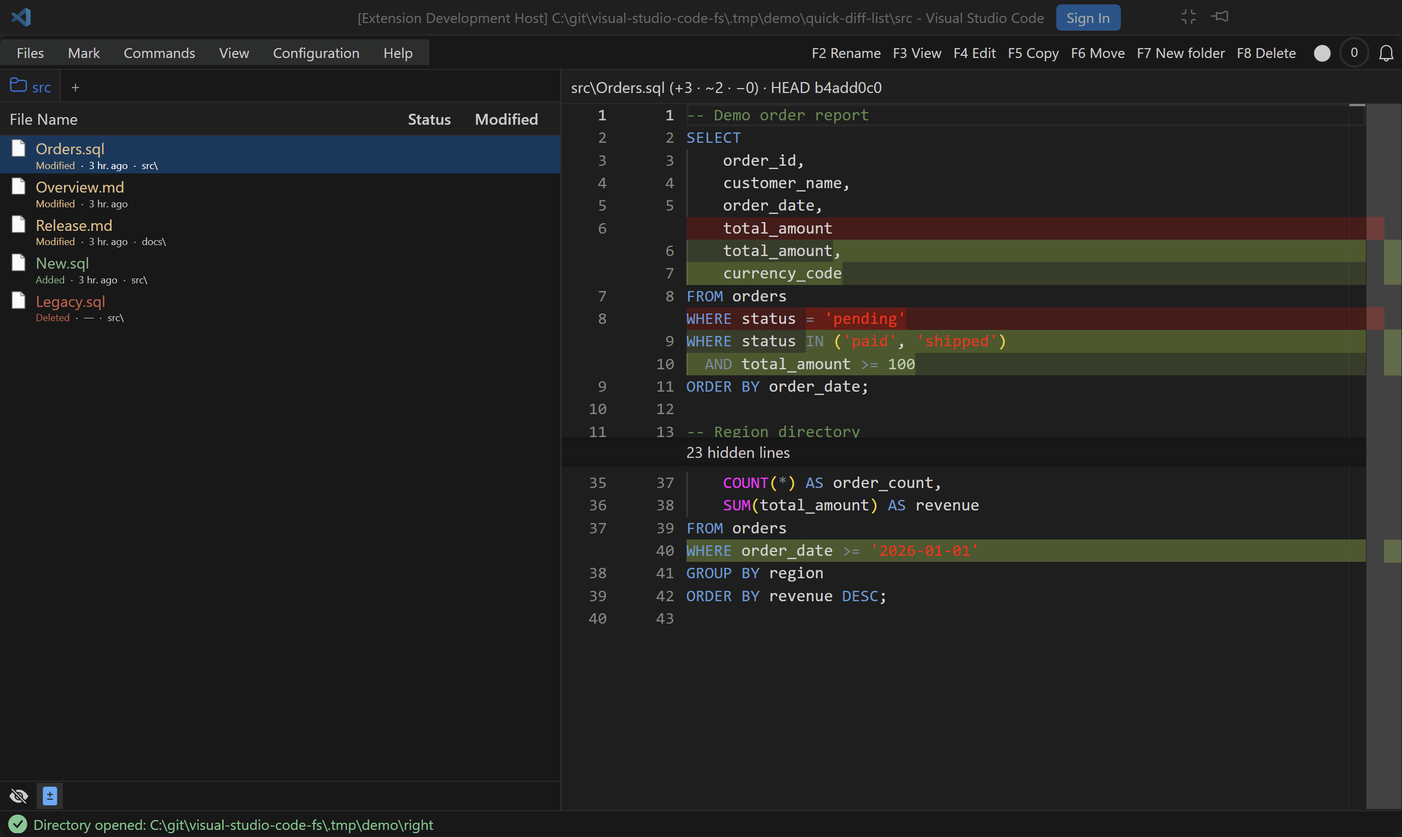
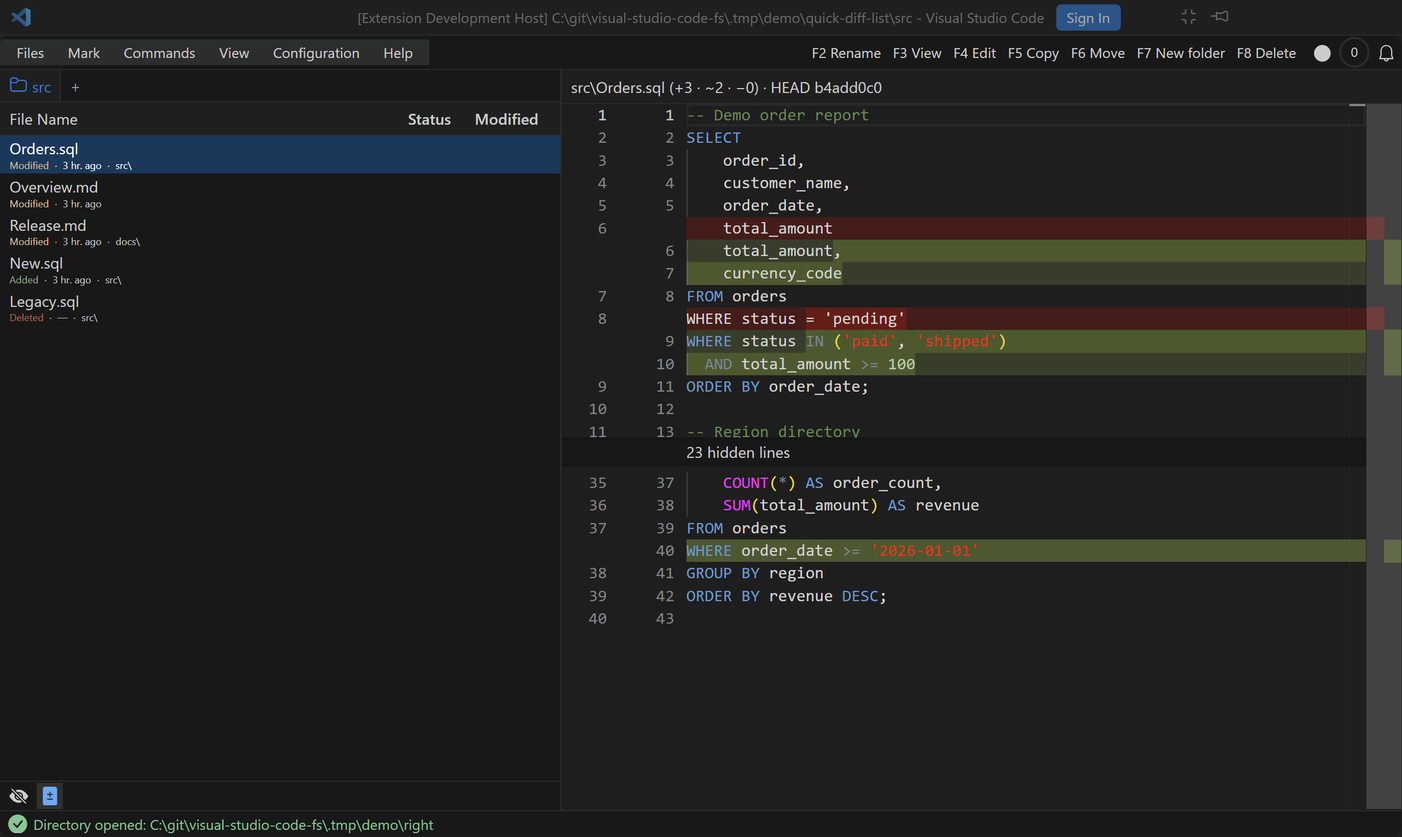
Polish Quick Diff list and add path copy shortcuts

Changed region(s): [[0.0, 0.1536, 0.0936, 0.3993], [0.5931, 0.3686, 0.6555, 0.3993], [0.4994, 0.3686, 0.5306, 0.3993]]

diff --git a/media/commander-quick-diff.js b/media/commander-quick-diff.js
@@ -1,11 +1,11 @@
 (function (root) {
   'use strict';
   root.CommanderQuickDiff = { create };
-  function create({ host, t, state, currentPath, isArchive, notify, beforeStart, preview, task, icon, decorate = () => {}, reveal = () => {} }) {
+  function create({ host, t, state, currentPath, isArchive, notify, beforeStart, preview, task, decorate = () => {}, reveal = () => {}, copy = () => {} }) {
     const container = document.querySelector('#panes');
     let source = null, mode = 'off', generation = 0, serial = 0, listId = null, repositoryRoot = null, entries = [], selected = -1, context = '', sourceView = null, view = null, editor = null, loading = false;
     const instance = [...crypto.getRandomValues(new Uint8Array(8))].map(v => v.toString(16).padStart(2, '0')).join('');
-    const pending = new Map(), activity = new Set(), requestedIcons = new Set(), icons = new Map(); let readRequest = null;
+    const pending = new Map(), activity = new Set(); let readRequest = null;
     let sortColumn = 'status', sortDirection = 'ascending';
     let restoration = null;
     const rowHeight = 32, relativeFormat = new Intl.RelativeTimeFormat(undefined, { numeric: 'auto', style: 'short' });
@@ -16,6 +16,12 @@
     }
     function updateTimes() { sourceView?.querySelectorAll('time').forEach(time => { const text = relativeTime(Date.parse(time.dateTime)); if (time.textContent !== text) time.textContent = text; }); }
     let clock = null;
+    const fullPath = entry => root.CommanderPaths.displayPath(root.CommanderPaths.joinPath(repositoryRoot || currentPath(state().panes[source]), entry.path), { platform: document.body.dataset.platform });
+    function copyPath(slash = false) {
+      if (!sourceView?.contains(document.activeElement)) return false;
+      const entry = entries[selected]; if (entry) copy(fullPath(entry), slash);
+      return true;
+    }
     const resize = new ResizeObserver(() => autoSize());
     function autoSize() {
       if (!sourceView?.isConnected || !sourceView.querySelector('[role="grid"]')) return;
@@ -44,7 +50,7 @@
       for (const [requestId] of pending) host?.postMessage({ type: 'quick-diff-cancel', requestId });
       pending.clear();
       if (listId) host?.postMessage({ type: 'quick-diff-release', listId });
-      listId = null; entries = []; selected = -1; loading = false; requestedIcons.clear(); icons.clear();
+      listId = null; entries = []; selected = -1; loading = false;
     }
     function message(text) { editor?.dispose(); editor = null; if (!view) return; const p = document.createElement('p'); p.role = 'status'; p.textContent = text; view.replaceChildren(p); }
     function focus() { sourceView?.querySelector('[role="grid"]')?.focus({ preventScroll: true }); }
@@ -79,22 +85,18 @@
       const body = grid.querySelector('.quick-diff-rows');
       const height = rowHeight, start = Math.max(0, Math.floor(grid.scrollTop / height) - 5), count = Math.ceil((grid.clientHeight || 560) / height) + 10;
       body.style.height = `${entries.length * height}px`; body.replaceChildren();
-      const needed = [];
       for (let i = start; i < Math.min(entries.length, start + count); i++) {
         const entry = entries[i], row = document.createElement('div'); row.role = 'row'; row.dataset.diffIndex = String(i); row.id = `${instance}-diff-${i}`;
         row.dataset.diffPath = entry.path;
         row.dataset.diffStatus = entry.gitStatus || entry.status.toLowerCase();
         row.dataset.diffKind = entry.status.toLowerCase();
-        entry.icon = icons.get(entry.path);
-        if (!requestedIcons.has(entry.path) && needed.length < 100) { requestedIcons.add(entry.path); needed.push(entry.path); }
         row.className = 'quick-diff-row'; row.style.top = `${i * height}px`; row.setAttribute('aria-selected', String(i === selected)); row.setAttribute('aria-rowindex', String(i + 2));
-        const name = document.createElement('span'); name.className = 'quick-diff-name'; name.title = entry.name;
-        const glyph = document.createElement('span'); glyph.className = 'file-icon'; glyph.innerHTML = icon(entry);
+        const name = document.createElement('span'); name.className = 'quick-diff-name'; name.title = fullPath(entry);
         const filename = document.createElement('span'); filename.dataset.diffFilename = ''; filename.textContent = entry.path.split('/').pop();
-        const directory = document.createElement('span'); directory.dataset.diffDirectory = ''; directory.role = 'gridcell'; directory.setAttribute('aria-label', entry.name); directory.title = entry.name;
+        const directory = document.createElement('span'); directory.dataset.diffDirectory = ''; directory.role = 'gridcell'; directory.setAttribute('aria-label', entry.name); directory.title = fullPath(entry);
         const separator = Math.max(entry.name.lastIndexOf('/'), entry.name.lastIndexOf('\\'));
         directory.textContent = separator >= 0 ? entry.name.slice(0, separator + 1) : document.body.dataset.platform === 'win32' ? '.\\' : './';
-        name.append(glyph, filename);
+        name.append(filename);
         const status = document.createElement('span'); status.role = 'gridcell'; status.dataset.diffStatusCell = ''; status.textContent = t(entry.status);
         const modified = document.createElement('span'); modified.role = 'gridcell'; modified.dataset.modifiedAt = '';
         if (Number.isFinite(entry.modifiedAt)) {
@@ -105,7 +107,6 @@
         if (!['.\\', './'].includes(directory.textContent)) info.append(divider(), directory);
         row.append(name, info); body.append(row);
       }
-      if (needed.length) host?.postMessage({ type: 'quick-diff-icons', listId, generation, paths: needed.slice(0, 100) });
       grid.setAttribute('aria-rowcount', String(entries.length + 1));
       if (selected >= 0) grid.setAttribute('aria-activedescendant', `${instance}-diff-${selected}`); else grid.removeAttribute('aria-activedescendant');
       decorate();
@@ -147,6 +148,9 @@
         const side = source, root = repositoryRoot, previewState = snapshot(); stop(); reveal({ entry, root, side, previewState });
       });
       grid.addEventListener('keydown', event => {
+        if (!event.altKey && (event.ctrlKey || event.metaKey && document.body.dataset.platform === 'darwin') && event.key.toLowerCase() === 'y') {
+          event.preventDefault(); event.stopImmediatePropagation(); copyPath(event.shiftKey); return;
+        }
         let next = selected;
         if (event.key === 'ArrowDown') next++; else if (event.key === 'ArrowUp') next--; else if (event.key === 'Home') next = 0; else if (event.key === 'End') next = entries.length - 1; else if (event.key === 'PageDown') next += 10; else if (event.key === 'PageUp') next -= 10; else return;
         event.preventDefault(); event.stopImmediatePropagation(); choose(Math.max(0, Math.min(entries.length - 1, next))); grid.scrollTop = Math.max(0, selected * rowHeight - grid.clientHeight / 2); rows();
@@ -191,16 +195,6 @@
     }
     function receive(event) {
       const data = event.data;
-      if (data?.type === 'quick-diff-icons-result') {
-        if (data.listId === listId && data.generation === generation) {
-          for (const [name, value] of Object.entries(data.icons || {})) if (value) icons.set(name, value);
-          sourceView.querySelectorAll('[data-diff-index]').forEach(row => {
-            const entry = entries[Number(row.dataset.diffIndex)]; entry.icon = icons.get(entry.path);
-            const glyph = row.querySelector('.file-icon'); if (entry.icon && glyph.querySelector('img')?.src !== entry.icon) glyph.innerHTML = icon(entry);
-          });
-        }
-        return;
-      }
       if (data?.type === 'quick-diff-progress' && activity.has(data.requestId)) { task(data.requestId, 'Quick Diff', data.progress); return; }
       if (data?.type === 'quick-diff-finished' && activity.has(data.requestId)) { activity.delete(data.requestId); task(data.requestId, null, null); return; }
       if (data?.type === 'quick-diff-action-error') { notify(data.error, 'error'); return; }
@@ -241,6 +235,6 @@
     document.addEventListener('keydown', event => { if (source !== null && event.key === 'Escape' && event.target.closest('[data-quick-diff],[data-quick-diff-list]')) { event.preventDefault(); event.stopImmediatePropagation(); stop(true); } }, true);
     const theme = new MutationObserver(() => autoSize()); theme.observe(document.body, { attributes: true, attributeFilter: ['class', 'style'] });
     window.addEventListener('message', receive); window.addEventListener('pagehide', () => { stop(); clearInterval(clock); resize.disconnect(); theme.disconnect(); }, { once: true });
-    return { mount, sync, stop, snapshot, restore, refresh() { if (source === null) return false; load(); return true; } };
+    return { mount, sync, stop, snapshot, restore, copyPath, refresh() { if (source === null) return false; load(); return true; } };
   }
 })(globalThis);

diff --git a/tests/webview-quick-diff.test.js b/tests/webview-quick-diff.test.js
@@ -105,19 +105,20 @@ test('Quick Diff name sorting compares filenames across directories and preserve
   app.click(name); assert.deepEqual(paths(), ['a/z.sql', 'z/a.sql']);
 });
 
-test('Quick Diff uses Git colors for filename and status while keeping metadata readable', async t => {
+test('Quick Diff keeps filenames neutral without icons and colors only the status', async t => {
   const app = createApp(t, undefined, { fileSettings: { colors: { enabled: true, git: true, rules: { '*.sql': '#ffffff' } } } });
   app.click(app.document.querySelector('[data-quick-diff-toggle]'));
   const request = app.messages.find(message => message.type === 'quick-diff-list');
   app.window.dispatchEvent(new app.window.MessageEvent('message', { data: { type: 'quick-diff-result', requestId: request.requestId, generation: request.generation, ok: true,
     result: { id: 'colors', entries: [{ path: 'nested/query.sql', name: 'nested/query.sql', status: 'Modified', gitStatus: 'modified', modifiedAt: 1000 }] } } }));
   const row = app.document.querySelector('.quick-diff-row');
-  assert.ok(row.querySelector('.quick-diff-name').style.getPropertyValue('--file-type-color'));
-  assert.ok(row.style.getPropertyValue('--git-text-color'));
+  assert.equal(row.querySelector('.quick-diff-name').style.getPropertyValue('--file-type-color'), '');
+  assert.equal(row.style.getPropertyValue('--git-text-color'), '');
+  assert.equal(row.querySelector('.file-icon,img,svg'), null);
+  assert.equal(app.messages.some(message => message.type === 'quick-diff-icons'), false);
   assert.equal(row.querySelector('[data-modified-at]').style.getPropertyValue('--file-type-color'), '');
   assert.ok(row.querySelector('[data-diff-status-cell]').style.getPropertyValue('--quick-status-base'));
-  assert.equal(row.querySelector('.quick-diff-name').style.getPropertyValue('--file-type-color'), row.querySelector('[data-diff-status-cell]').style.getPropertyValue('--quick-status-base'));
-  assert.notEqual(row.querySelector('.quick-diff-name').style.getPropertyValue('--file-type-color'), '#ffffff');
+  assert.equal(row.querySelector('.quick-diff-name').style.getPropertyValue('--quick-status-base'), '');
   const list = app.document.querySelector('[data-quick-diff-list]');
   assert.ok(parseFloat(list.style.getPropertyValue('--quick-diff-status-width')) > 0);
   assert.ok(parseFloat(list.style.getPropertyValue('--quick-diff-date-width')) > 0);
@@ -139,6 +140,8 @@ test('Quick Diff metadata uses the bright foreground even on unselected rows', t
   const row = app.document.querySelector('[data-diff-path="src/b.sql"]');
   assert.equal(row.getAttribute('aria-selected'), 'false');
   for (const cell of ['[data-diff-directory]', '[data-modified-at]', '.quick-diff-separator']) assert.equal(app.window.getComputedStyle(row.querySelector(cell)).color, 'rgb(204, 204, 204)');
+  assert.equal(app.window.getComputedStyle(row.querySelector('.quick-diff-name')).color, 'rgb(204, 204, 204)');
+  assert.equal(app.window.getComputedStyle(row.querySelector('.quick-diff-info')).paddingLeft, '0px');
   assert.equal(app.document.querySelector('[data-diff-path="a.sql"] .quick-diff-info').children.length, 3);
 });
 
@@ -241,4 +244,27 @@ test('Quick Diff history waits for the filesystem navigation acknowledgement bef
   receive({ type: 'filesystem-result', navigationRequestId: back.navigationRequestId, ok: true, state: back.state });
   assert.ok(app.document.querySelector('[data-quick-diff]'));
   assert.equal(app.messages.filter(message => message.type === 'quick-diff-list').at(-1).selectedPath, 'docs/audit.sql');
+});
+
+test('Quick Diff tooltips and path shortcuts use the complete selected path', t => {
+  const app = createApp(t, undefined, { platform: 'win32' });
+  app.click(app.document.querySelector('[data-quick-diff-toggle]'));
+  const request = app.messages.find(message => message.type === 'quick-diff-list');
+  app.window.dispatchEvent(new app.window.MessageEvent('message', { data: { type: 'quick-diff-result', requestId: request.requestId, generation: request.generation, ok: true,
+    result: { id: 'paths', root: 'C:/repo', entries: [{ path: 'src/query.sql', name: 'src\\query.sql', status: 'Modified' }] } } }));
+  assert.equal(app.document.querySelector('.quick-diff-name').title, 'C:\\repo\\src\\query.sql');
+  assert.equal(app.document.querySelector('[data-diff-directory]').title, 'C:\\repo\\src\\query.sql');
+  const grid = app.document.querySelector('[data-quick-diff-list] [role="grid"]'); grid.focus();
+  app.key('y', { ctrlKey: true }, grid);
+  let copy = app.messages.filter(message => message.type === 'selection-io').at(-1);
+  assert.equal(copy.text, 'C:\\repo\\src\\query.sql'); assert.equal(copy.pathStyle, undefined);
+  app.key('Y', { ctrlKey: true, shiftKey: true }, grid);
+  copy = app.messages.filter(message => message.type === 'selection-io').at(-1);
+  assert.equal(copy.text, 'C:\\repo\\src\\query.sql'); assert.equal(copy.pathStyle, 'slash');
+  app.action('copy-full-names');
+  assert.equal(app.messages.filter(message => message.type === 'selection-io').at(-1).pathStyle, undefined);
+  grid.blur(); const count = app.messages.filter(message => message.type === 'selection-io').length;
+  app.document.querySelector('[data-quick-diff]').focus();
+  app.key('y', { ctrlKey: true }, app.document.activeElement);
+  assert.equal(app.messages.filter(message => message.type === 'selection-io').length, count);
 });

diff --git a/media/app.js b/media/app.js
@@ -1503,8 +1503,8 @@
         const status = quick ? row.dataset.diffStatus : error ? 'error' : gitInfo(currentPath(p))?.statuses?.[file.name];
         const gitColor = !contrast && settings.git !== false ? statusColor(status) : null;
         const quickColor = quick && !contrast ? row.dataset.diffKind === 'added' ? variable('--vscode-gitDecoration-addedResourceForeground') || '#008000' : statusColor(row.dataset.diffKind) : null;
-        const nameColor = quick ? quickColor : file.type === 'folder' ? gitColor : desired;
-        const rowColor = file.type !== 'folder' && (!status || ['clean', 'untracked', 'ignored'].includes(status)) ? desired : gitColor;
+        const nameColor = quick ? null : file.type === 'folder' ? gitColor : desired;
+        const rowColor = quick ? null : file.type !== 'folder' && (!status || ['clean', 'untracked', 'ignored'].includes(status)) ? desired : gitColor;
         set(name, '--file-type-color', nameColor ? safe(nameColor, background) : '');
         set(name, '--file-type-hover', nameColor ? safe(nameColor, hover) : '');
         set(row, '--git-text-color', rowColor ? safe(rowColor, background) : '');
@@ -1514,7 +1514,6 @@
           for (const [kind, back] of Object.entries({ base: background, hover, active: nativeIconBackgrounds.active, inactive: nativeIconBackgrounds.inactive })) {
             const color = quickColor ? safe(quickColor, back) : '';
             set(statusCell, `--quick-status-${kind}`, color);
-            set(name, `--quick-status-${kind}`, color);
           }
         }
       }
@@ -1913,7 +1912,7 @@
   const actions = [['F2', t('Umbenennen'), 'rename-one'], ['F3', t('Anzeigen'), 'view'], ['F4', t('Bearbeiten'), 'edit'], ['F5', t('Kopieren'), 'copy'], ['F6', t('Verschieben'), 'move'], ['F7', t('Neuer Ordner'), 'mkdir'], ['F8', t('Löschen'), 'delete']];
   const lister = window.CommanderListerView.create({ host, state: () => state, t, escape, modal, restore: render, edit: file => preview(file, true), notify: toast, report: reportStatus, remember: rememberScroll, task: statusTask });
   const previewManager = window.CommanderPreview.create();
-  const quickDiff = window.CommanderQuickDiff.create({ host, t, state: () => state, currentPath, isArchive: isArchiveLocation, notify: toast, task: xrayTask, preview: previewManager, decorate: refreshFileColors, reveal: revealQuickDiffEntry, beforeStart: () => { document.querySelectorAll("[data-lister-close]").forEach(button => button.click()); }, icon: entry => entry.icon ? window.CommanderIcons.native(entry.icon) : baseIcon({ name: entry.name.split("/").pop(), type: "file", iconKey: entry.fsSource }, ""), });
+  const quickDiff = window.CommanderQuickDiff.create({ host, t, state: () => state, currentPath, isArchive: isArchiveLocation, notify: toast, task: xrayTask, preview: previewManager, decorate: refreshFileColors, reveal: revealQuickDiffEntry, copy: (text, slash) => selectionIO('copy', text, [{ start: 0, length: text.length }], undefined, slash ? 'slash' : 'native'), beforeStart: () => { document.querySelectorAll("[data-lister-close]").forEach(button => button.click()); }, });
   function revealQuickDiffEntry({ entry, root, side, previewState }) {
     const target = join(root, entry.path), directory = parent(target);
     const finish = () => {
@@ -3231,6 +3230,7 @@
     clearPendingRenameCue(); lastNameClick = null;
     if (['git-diff', 'git-history', 'git-untrack', 'git-ignore'].includes(command)) { requestGitDiff(contextSelection, command); return; }
     if (typeof command !== 'string') return;
+    if (['copy-full-names', 'copy-full-names-slash'].includes(command) && quickDiff.copyPath(command === 'copy-full-names-slash')) return;
     if (command === 'open-terminal') {
       if ($('#modal').open || document.activeElement?.matches('input,textarea,select,[contenteditable="true"]') || !document.activeElement?.closest('.list') || filesystemPending) return;
       if (state.archiveLocations?.[currentPath(pane())] || currentPath(pane()).startsWith('zip:')) return toast(t('Diese Aktion ist innerhalb eines ZIP-Archivs nicht verfügbar.'));

diff --git a/media/app.css b/media/app.css
@@ -757,17 +757,13 @@ body[data-file-drag-cursor="none"] * { cursor: no-drop !important; }
 .quick-diff-row[aria-selected="true"] { background:var(--vscode-list-activeSelectionBackground); color:var(--vscode-list-activeSelectionForeground); }
 .quick-diff-row > span { overflow:hidden; text-overflow:ellipsis; white-space:nowrap; }
 .quick-diff-name { display:flex; align-items:center; gap:6px; }
-.quick-diff-name .file-icon { display:inline-flex; flex-shrink:0; width:16px; height:16px; }
 
-.quick-diff-row { color:var(--git-text-color,var(--text)); }
-.quick-diff-row:hover { color:var(--git-hover-color,var(--text)); }
-.quick-diff-name { color:var(--file-type-color,inherit); }
-.quick-diff-row:hover .quick-diff-name { color:var(--file-type-hover,inherit); }
+.quick-diff-row { color:var(--vscode-foreground,var(--text)); }
 .quick-diff-row[aria-selected="true"] > span { color:var(--inactive-selection-text,var(--vscode-list-inactiveSelectionForeground,var(--text))); }
 .pane.active .quick-diff-row[aria-selected="true"] > span { color:var(--active-selection-text,var(--vscode-list-activeSelectionForeground,var(--text))); }
 
 .quick-diff-name [data-diff-filename] { overflow:hidden; text-overflow:ellipsis; white-space:nowrap; }
-.quick-diff-info { display:flex; align-items:baseline; gap:5px; padding-left:22px; box-sizing:border-box; font-size:.64em; line-height:1.2; min-width:0; color:var(--vscode-foreground,var(--text)); }
+.quick-diff-info { display:flex; align-items:baseline; gap:5px; padding-left:0; box-sizing:border-box; font-size:.64em; line-height:1.2; min-width:0; color:var(--vscode-foreground,var(--text)); }
 .quick-diff-info > span { flex:0 0 auto; white-space:nowrap; }
 .quick-diff-info [data-diff-directory] { flex:0 1 auto; min-width:0; overflow:hidden; text-overflow:ellipsis; }
 [data-diff-status-cell] { color:var(--quick-status-base,inherit); }
@@ -777,5 +773,3 @@ body[data-file-drag-cursor="none"] * { cursor: no-drop !important; }
 .quick-diff-row[aria-selected="true"] .quick-diff-info { color:inherit; }
 .quick-diff-row[aria-selected="true"] [data-diff-status-cell] { color:var(--quick-status-inactive,inherit); }
 .pane.active .quick-diff-row[aria-selected="true"] [data-diff-status-cell] { color:var(--quick-status-active,inherit); }
-.quick-diff-row[aria-selected="true"] .quick-diff-name { color:var(--quick-status-inactive,inherit); }
-.pane.active .quick-diff-row[aria-selected="true"] .quick-diff-name { color:var(--quick-status-active,inherit); }

diff --git a/README.md b/README.md
@@ -407,7 +407,7 @@ X-Ray Ultra updates the opposite preview after pausing over a text file for 200 
 <details>
 <summary>0054 · Quick Diff: current folder</summary>
 
-Select a changed file to compare its saved content with HEAD in a read-only inline diff. Unchanged sections are collapsed with three context lines and can be expanded. The title shows separate added, changed and deleted line counts. Both modes show paths relative to the repository root with native separators. Full-width filenames appear above a compact status · relative time · root-relative directory line. Filenames and status use Git colors; time, separators and paths use the readable theme foreground. Name, status and date remain sortable, with status then newest first as the default order. Exact-date tooltips show the local modification time. Double-click a file to leave Quick Diff and select it in its folder. History Back restores the previous Quick Diff scope, file selection, sort and scroll position. Ignored files are excluded. Double-click the preview to open the full VS Code diff editor.
+Select a changed file to compare its saved content with HEAD in a read-only inline diff. Unchanged sections are collapsed with three context lines and can be expanded. The title shows separate added, changed and deleted line counts. Both modes show paths relative to the repository root with native separators. Full-width filenames appear above a compact status · relative time · root-relative directory line. Filenames use the normal theme foreground without file icons; only status labels use Git colors. Time, separators and paths use the readable theme foreground. Name, status and date remain sortable, with status then newest first as the default order. Exact-date tooltips show the local modification time. Filename and directory tooltips show the complete file path; Ctrl+Y copies it, and Ctrl+Shift+Y copies it with forward slashes. Double-click a file to leave Quick Diff and select it in its folder. History Back restores the previous Quick Diff scope, file selection, sort and scroll position. Ignored files are excluded. Double-click the preview to open the full VS Code diff editor.
 
 ![Quick Diff: current folder](media/marketplace/showcases/0054-windows-en-dark-quick-diff-folder-preview.png)
 
@@ -424,7 +424,7 @@ Cycle the footer button to include the entire repository, including new files an
 
 <!-- showcase-gallery:end -->
 
-Quick Diff compares saved files with HEAD in a read-only inline view. Its footer button cycles through the current folder including subfolders, the entire repository, and off. Full-width filenames sit above a compact status · relative time · root-relative directory line with native separators. Filenames and status use Git colors; other metadata uses the readable theme foreground. Name, status and date remain sortable; the default is Modified, Added, then Deleted, with newest files first within each status. Exact-date tooltips show local modification times. Ignored files are excluded. New files appear as additions against an empty original; deleted files show the removed HEAD content. Double-click the preview to open the VS Code comparison, or double-click a list entry to leave Quick Diff and select the file in its folder. History Back returns to the previous Quick Diff view with its selection, sorting and scroll position. The per-version limit defaults to 5 MiB (`bitfroest.files.quickDiffMaxFileSizeMiB`). The built-in Git extension and Git installation are required.
+Quick Diff compares saved files with HEAD in a read-only inline view. Its footer button cycles through the current folder including subfolders, the entire repository, and off. Full-width filenames sit above a compact status · relative time · root-relative directory line with native separators. Filenames use the normal theme foreground without file icons; only status labels use Git colors. Other metadata uses the readable theme foreground. Name, status and date remain sortable; the default is Modified, Added, then Deleted, with newest files first within each status. Exact-date tooltips show local modification times. Ignored files are excluded. New files appear as additions against an empty original; deleted files show the removed HEAD content. Double-click the preview to open the VS Code comparison, or double-click a list entry to leave Quick Diff and select the file in its folder. History Back returns to the previous Quick Diff view with its selection, sorting and scroll position. Filename and directory tooltips show the complete file path; Ctrl+Y copies it, and Ctrl+Shift+Y uses forward slashes. The per-version limit defaults to 5 MiB (`bitfroest.files.quickDiffMaxFileSizeMiB`). The built-in Git extension and Git installation are required.
 
 ## Configuration
 

diff --git a/.github/release-notes/0.0.51.md b/.github/release-notes/0.0.51.md
@@ -4,9 +4,9 @@ Changes since version [0.0.50](https://github.com/s-a/Bitfroest.fs/releases/tag/
 
 ## Added
 
-- Quick Diff compares saved file content with HEAD in a read-only inline preview. The footer button cycles through the current folder and its subfolders, the entire repository, and off. The preview uses 60% of the width; the file list uses 40% and shows root-relative paths, status and local file modification times. Full-width filenames appear above a compact status · relative time · root-relative directory line. Filenames and status use Git colors; the remaining metadata uses the readable theme foreground. Name, status and date remain sortable. Localized relative modification times have exact-date tooltips. The default order is Modified, Added, then Deleted, with newest files first within each status and unavailable timestamps last within their status.
+- Quick Diff compares saved file content with HEAD in a read-only inline preview. The footer button cycles through the current folder and its subfolders, the entire repository, and off. The preview uses 60% of the width; the file list uses 40% and shows root-relative paths, status and local file modification times. Full-width filenames appear above a compact status · relative time · root-relative directory line. Filenames use the normal theme foreground without file icons; only status labels use Git colors. The remaining metadata uses the readable theme foreground. Name, status and date remain sortable. Filename and directory tooltips show the complete file path. Ctrl+Y copies the selected file path; Ctrl+Shift+Y copies it with forward slashes. Localized relative modification times have exact-date tooltips. The default order is Modified, Added, then Deleted, with newest files first within each status and unavailable timestamps last within their status.
 - Unchanged sections collapse with three context lines and can be expanded. Quick Diff uses a narrow change overview without a minimap. The preview title counts added (+), changed (~) and deleted (−) lines without double-counting changed lines. Text can be copied, and double-clicking opens the same comparison in the native VS Code diff editor.
-- Quick Diff includes new files and excludes ignored files. Both modes use native path separators, no redundant directory marker for root-level files, and Git status colors. New files appear as syntax-highlighted additions against an empty original; deleted files show the HEAD content as removed lines. Each text version is limited to 5 MiB by default, configurable with `bitfroest.files.quickDiffMaxFileSizeMiB`.
+- Quick Diff includes new files and excludes ignored files. Both modes use native path separators, no redundant directory marker for root-level files, and Git status colors for status labels. New files appear as syntax-highlighted additions against an empty original; deleted files show the HEAD content as removed lines. Each text version is limited to 5 MiB by default, configurable with `bitfroest.files.quickDiffMaxFileSizeMiB`.
 
 - X-Ray previews text files in the opposite pane with syntax highlighting and a complete minimap. The eye button cycles through off, preview on click, and X-Ray Ultra on hover after 200 ms. Right-clicking the eye turns the preview off.
 - Preview text can be selected and copied with Ctrl+C or the context menu. Double-clicking a text line opens the original file at that line in VS Code. The line under the pointer receives a subtle background highlight.
